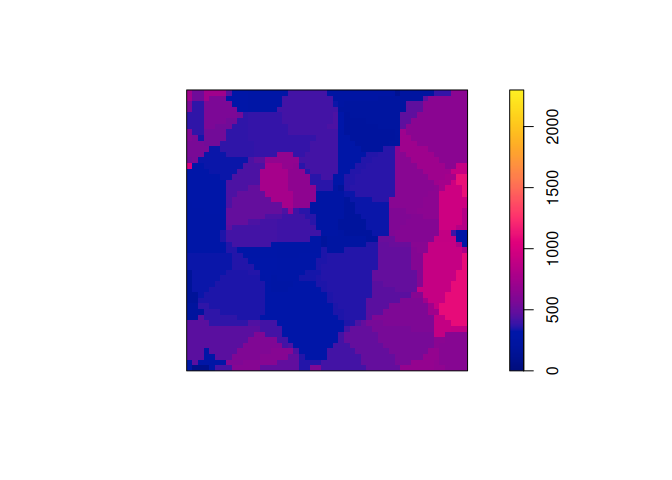
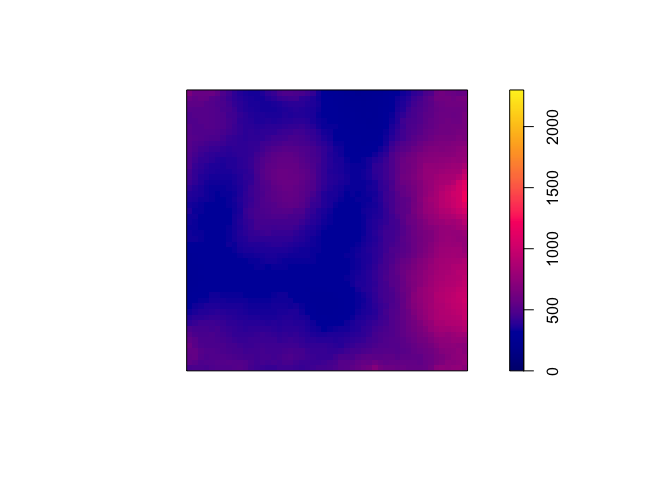
update vignette

diff --git a/README.md b/README.md
@@ -1,6 +1,6 @@
 # Getting started with spforest
 
-nlkjn \## Requirements
+## Requirements
 
 To install the package directly from Github, with the minimum version to
 run this vignette, run the following command.
@@ -8,15 +8,8 @@ run this vignette, run the following command.
 ``` r
 if (!requireNamespace("pak")) {install.packages("pak")}
 if (!requireNamespace("spforest")) {pak::pkg_install("biscio/spforest")}
-if (packageVersion("spforest")<"0.0.0.927") {pak::pkg_install("biscio/spforest", upgrade = TRUE)}
 library(spforest)
 ```
-
-    Warning: package 'spatstat.geom' was built under R version 4.3.3
-
-    Warning: package 'spatstat.data' was built under R version 4.3.3
-
-    Warning: package 'spatstat.univar' was built under R version 4.3.3
 
 ## Generation of a synthetic dataset
 
@@ -41,8 +34,8 @@ plot(simcov, main = "")
 
 ![](README_files/figure-commonmark/unnamed-chunk-3-1.png)
 
-Then, let’s simulate an inhomogeneous Poisson point process whose
-intensity depends on the covariates `A`: the first random field.  
+Now, let’s simulate an inhomogeneous Poisson point process `X` whose
+intensity depends on the covariate `A`, that is the first random field.
 The intensity is normalised to have, in average, 500 points.
 
 ``` r
@@ -50,13 +43,13 @@ lambda0 <- 500 * simcov[[1]] / integral(simcov[[1]])
 X <- spatstat.random::rpoispp(lambda = lambda0)
 ```
 
-Let’s fix the colour map for all the plots.
+Let’s fix the colour map for all plots.
 
 ``` r
 cm <- colourmap(default.image.colours(), range = c(0, 2300))
 ```
 
-The true intensity is shown on the plot below.
+The true intensity is shown below.
 
 ``` r
 plot(lambda0, col = cm, main = "True Intensity")
@@ -64,8 +57,7 @@ plot(lambda0, col = cm, main = "True Intensity")
 
 ![](README_files/figure-commonmark/unnamed-chunk-6-1.png)
 
-The realisation of the Poisson process with intensity given by `lambda0`
-as defined above is shown below.
+The generated point pattern `X` is shown on the plot below.
 
 ``` r
 plot(X, main = "", pch = 20, cex = 0.8)
@@ -73,22 +65,23 @@ plot(X, main = "", pch = 20, cex = 0.8)
 
 ![](README_files/figure-commonmark/unnamed-chunk-7-1.png)
 
-## Random forest intensity with covariates
+## Random forest intensity estimation with covariates
 
-We will estimate the intensity of the point process in the last section,
-using the three covariates from `simcov`.
+We estimate in this section the intensity of `X` using the three
+covariates `A`, `B` and `C` stored in the list `simcov`.
 
-The computation of the random forest intensity is handled by the
-function `spforest`. The hyperparameters are
+The computation of the random forest intensity estimator is handled by
+the function `spforest`.
 
-- `Ntree = 100`, We generates 100 tree intensity estimates;
-- `mtry = 3`, at each split, we use the three covariates;
-- `minpts = 100`, we do not try to split a cell if there is less that
-  100 points in it.
+For this notebook, the hyperparameters are set arbitrarely to
 
-For the purpose of this notebook, they have been chosen arbitrarily but
-they could be optimised by OOB cross-validation with the function
-`OOBoptim`.
+- `Ntree = 100`: 100 tree intensity estimators are averaged;
+- `mtry = 3`: at each split in a tree, the three covariates are used;
+- `minpts = 100`: we do not try to split a cell if there is less that
+  100 points in the cell.
+
+(Note that these hyperparameters can be optimised by OOB
+cross-validation with the function `OOBoptim`.)
 
 ``` r
 RF <- spforest(
@@ -101,15 +94,13 @@ RF <- spforest(
 ```
 
 ``` r
-plot(RF,
-     main = "", col = cm
-)
+plot(RF, main = "RF intensity estimation with covariates", col = cm)
 ```
 
 ![](README_files/figure-commonmark/unnamed-chunk-9-1.png)
 
-Finally, we can compute the variable importance (VIP) of the covariates
-and find the most important one: here the first one “A”.
+Finally, we can compute and plot the variable importance of each
+covariate. As expected, the most important one is `A`.
 
 ``` r
 vipplot(RF)
@@ -117,53 +108,49 @@ vipplot(RF)
 
 ![](README_files/figure-commonmark/unnamed-chunk-10-1.png)
 
-## Random forest intensity on the plane without covariates
+## Random forest intensity estimation on the plane without covariates
 
-We will estimate the intensity of the point process in the first
-section, without the generated covariates, meaning, using only the
-spatial coordinates of the points.
+We estimate in this section the intensity of `X` without using any
+covariate, but only the spatial coordinates of the points.
 
-Then, the random forest intensity estimate is computed with `Ntree`
-independent and identically distributed Poisson Voronoi tessellations,
-each with intensity `lambda`. A sensible choice for `lambda`, based on
-the Freedman-Diaconis choice of bins’ widths for a histogram, is chosen
-by default.
+The intensity estimator is then computed with `Ntree` independent and
+identically distributed Poisson Voronoï tessellations, each with
+intensity `gamma`. A sensible default value for `gamma` is computed
+automatically, based on the Freedman-Diaconis rule for selecting
+histogram bin widhts.
 
 ``` r
 RFnocov <- spforest(X, Ntree = 100)
-plot(RFnocov, col = cm, main="")
+plot(RFnocov, col = cm, main="RF intensity estimation without covariates")
 ```
 
 ![](README_files/figure-commonmark/unnamed-chunk-11-1.png)
 
-## Random forest intensity on a manifold
+## Random forest intensity estimation on a manifold
 
-To work with meshes of manifolds, we rely on the `rgl` package. As an
-example, we will use a simulated point pattern that we simulated on the
-the mesh `humface` from the R package `Rvcg`.
+To work with 3D-meshes of manifolds, we rely on the `rgl` package. As an
+example, we use a simulated point pattern that we generated on the
+manifold `humface` from the R package `Rvcg`. The list object
+`simppface` contains the 3D-mesh and the generated points. They are
+represented below.
 
 ``` r
 library(rgl)
 library(Rvcg)
-```
-
-    Warning: package 'Rvcg' was built under R version 4.3.3
-
-``` r
-X <- spforest::simppface
-shade3d(X$mesh, col = "gray")
-points3d(X$pp, col = "black", size = 2, add = T)
+XX <- spforest::simppface
+shade3d(XX$mesh, col = "gray")
+points3d(XX$pp, col = "black", size = 2, add = T)
 view3d(theta = 20, phi = 0)
 ```
 
 <img src="README_files/figure-commonmark/unnamed-chunk-12-1-rgl.png"
 style="width:70.0%" />
 
-We can generate a random forest intensity estimator with `Ntree=100`
-independent tessellations generated on the manifold.
+We now estimate the intensity of points, using `Ntree=100` independent
+Poisson Voronoï tessellations generated on the manifold.
 
 ``` r
-forestmesh <- spforest(X = X, Ntree = 100)
+forestmesh <- spforest(X = XX, Ntree = 100)
 plot(forestmesh)
 view3d(theta = 20, phi = 0)
 ```